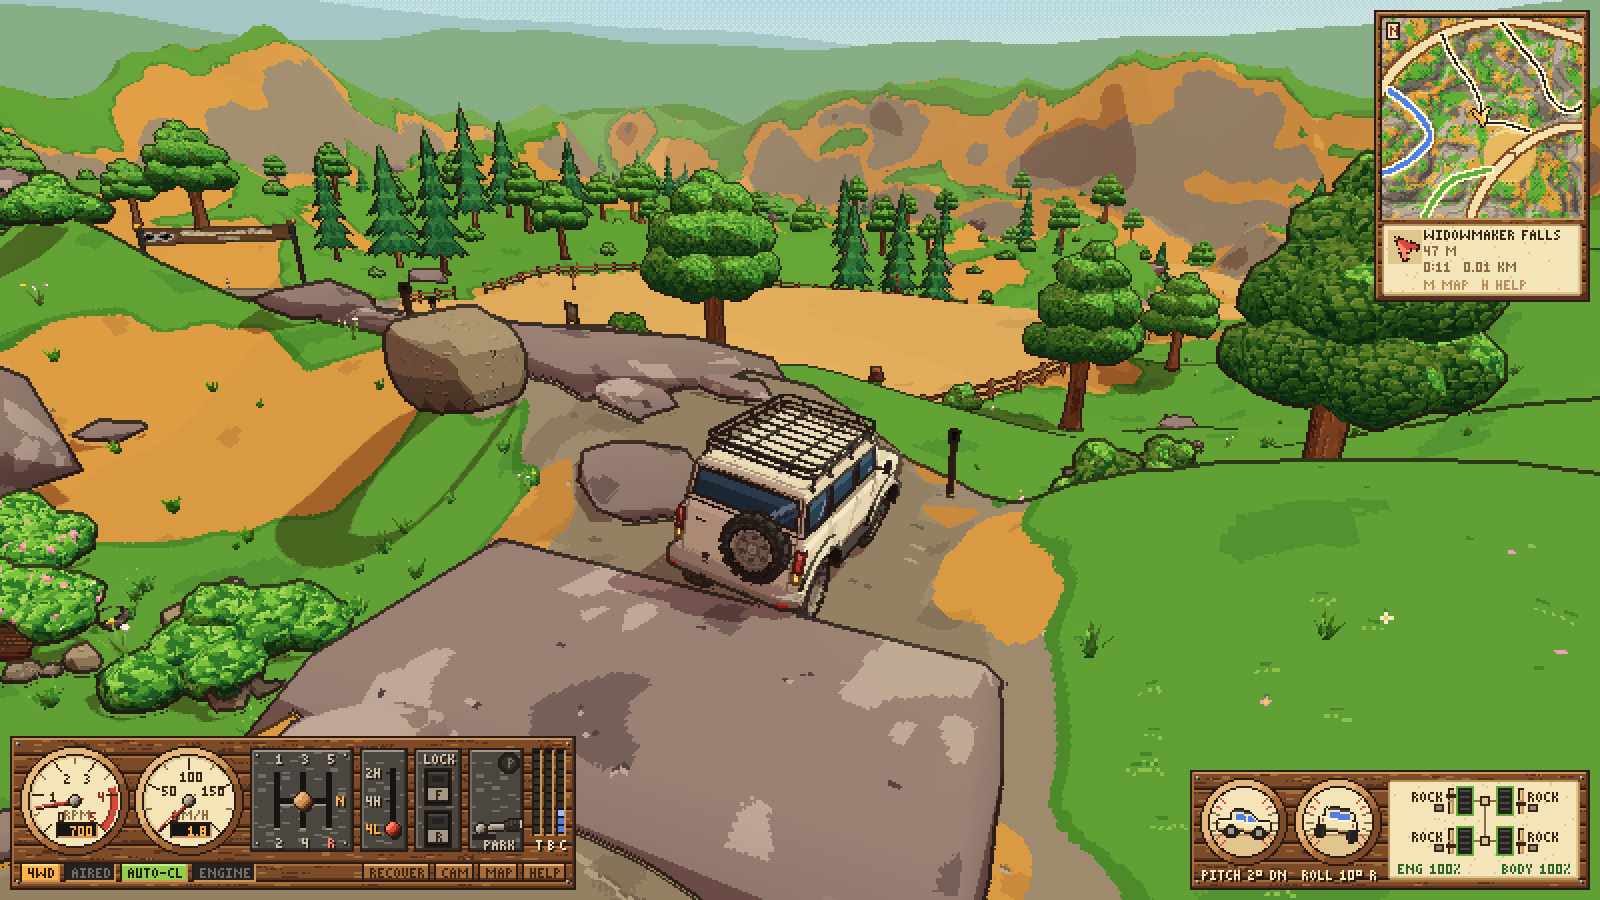
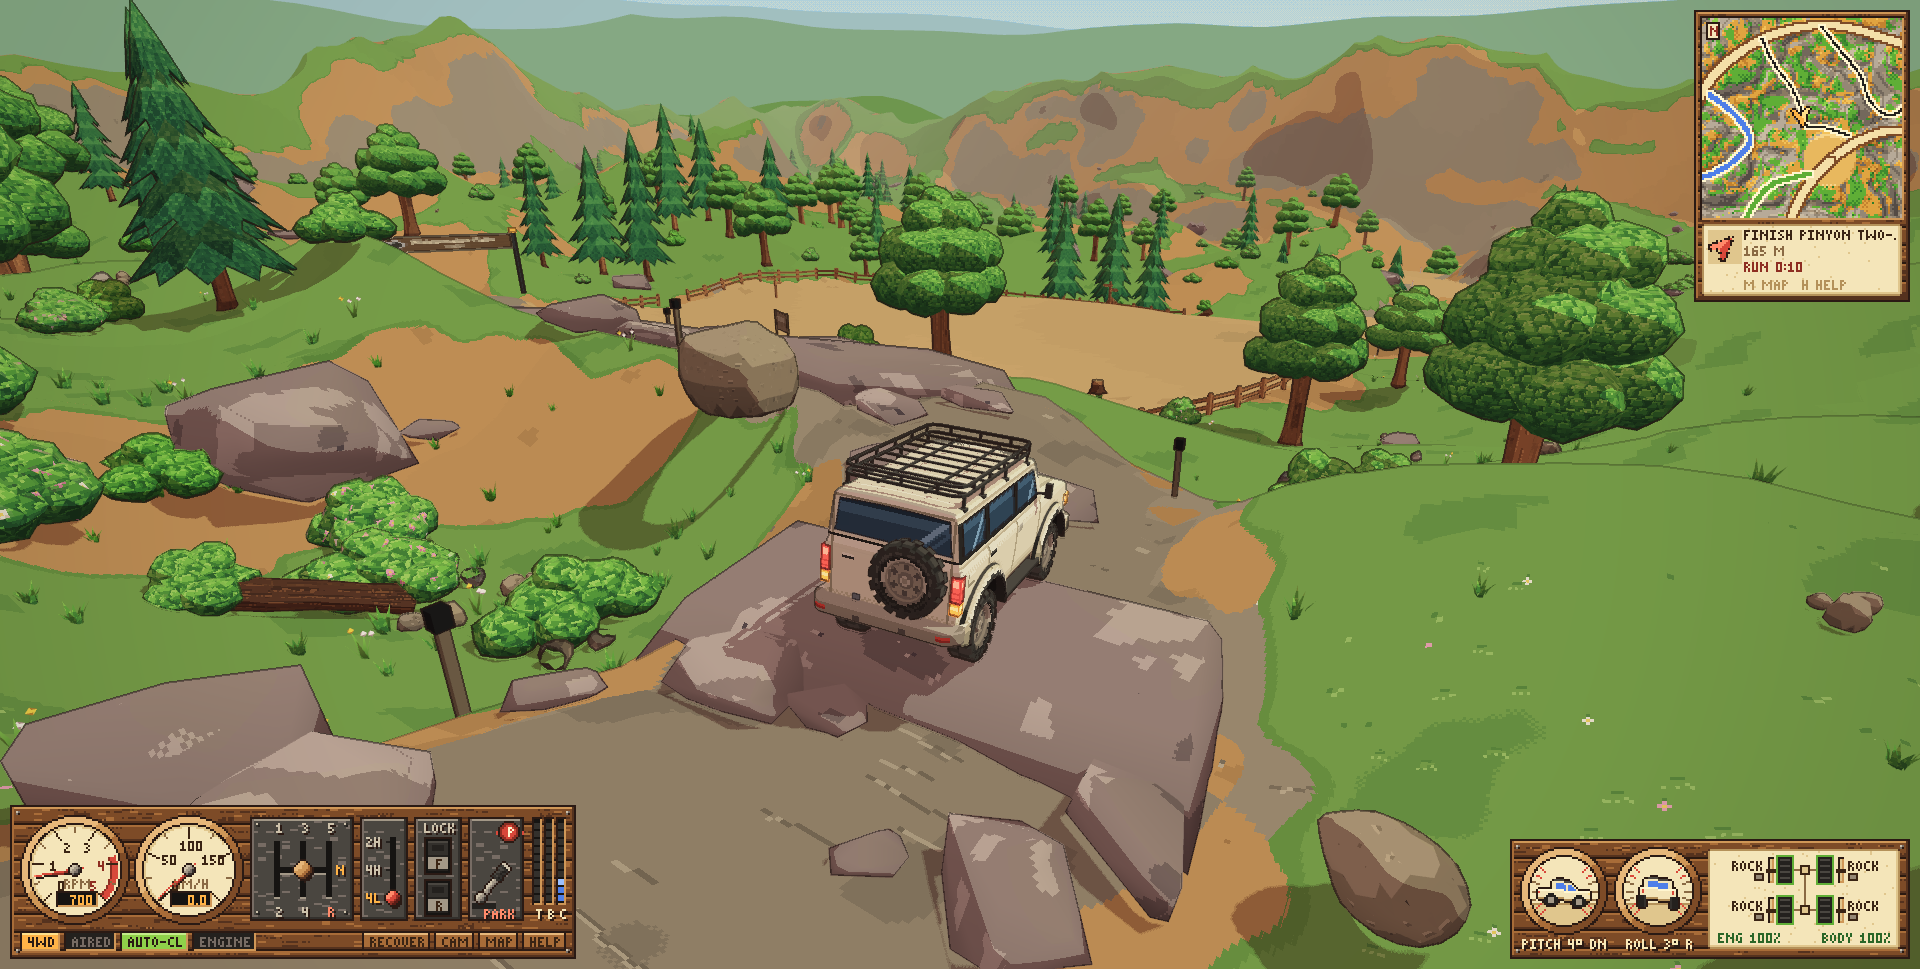
Comfort research, art style update, previews
- docs/reviews/GRAPHICS_RESEARCH.md: measured comfort metrics of 11 games' store screenshots
  against our frame before and after, techniques per game and the rules applied
- ART_STYLE.md: comfort rule, coloured outlines, HD 1x frame, new dirt / grass ramps
- previews: game_* finals at HD 1x + Soft (1920x969), comfort_before/after pairs (trailhead,
  Granite Steps, the Gauntlet, race track), comfort_presets (Soft / Standard / Vivid)
- test/clarity.mjs: SETTINGS env to start with given saved settings

diff --git a/docs/reviews/GRAPHICS_RESEARCH.md b/docs/reviews/GRAPHICS_RESEARCH.md
@@ -1,0 +1,173 @@
+# Graphics research: clean, HD and restful, but still cozy pixel art
+
+Written for the "slightly hard on the eyes, maybe too bright or too contrasted" feedback (Nov 2026).
+Goal: a high-definition, clean picture that still reads as Stardew-style pixel art, and that is
+comfortable to look at for hours.
+
+## Method
+
+- **Real screenshots, measured.** 55 official store screenshots were fetched from the Steam store
+  API (`store.steampowered.com/api/appdetails?appids=...&filters=screenshots`) for Stardew Valley,
+  Sea of Stars, Eastward, Octopath Traveler, Triangle Strategy, A Short Hike, Tunic, Alba, Lonely
+  Mountains: Downhill, Art of Rally and Dinkum. The ones that are daytime outdoor gameplay with
+  little UI were kept (1 to 4 per game). Interiors, battle UIs and menus were left out. These are
+  curated marketing shots, so they are a best-case version of each game.
+- **Not on Steam, so not measured:** Zelda: Link's Awakening (2019) and Animal Crossing. They are
+  discussed from knowledge only.
+- **The same metric on every image** (`py tools/clarity_metrics.py comfort <images...>`): each
+  image is box-resampled to 480 x 270 so sources compare on equal terms. Columns:
+  - L5, L50, L95: Rec.709 luminance percentiles (display-encoded, 0 to 1).
+  - white, black: share of pixels with L > 0.9 and L < 0.08.
+  - sat, sat95: mean and 95th-percentile HSV saturation.
+  - loud: share of pixels that are both bright and strongly saturated (V > 0.75 and S > 0.55).
+  - rms: global luminance contrast.
+  - local: mean standard deviation of L in 4x4 blocks.
+  - edges: share of pixels with a Sobel gradient above 0.25.
+  - hues: number of 15-degree hue bins holding at least 2% of the coloured pixels.
+  - skygap: mean L of the top 22% minus the bottom half.
+- **Our frames** are the internal render (no HUD) from `test/clarity.mjs` at the player's
+  1920x969 browser window. There are five scenes: trailhead, Granite Steps, Widowmaker,
+  Gauntlet stage 3 and the race track.
+
+## Numbers
+
+| source | L5 | L50 | L95 | white | black | sat | sat95 | loud | rms | local | edges | hues |
+|---|---|---|---|---|---|---|---|---|---|---|---|---|
+| Stardew Valley (3) | 0.18 | 0.52 | 0.78 | 0.066 | 0.006 | 0.71 | 0.93 | 0.30 | 0.21 | 0.084 | 0.142 | 8.7 |
+| Sea of Stars (2) | 0.09 | 0.20 | 0.56 | 0 | 0.032 | 0.53 | 0.88 | 0.00 | 0.14 | 0.043 | 0.040 | 12 |
+| Eastward (1) | 0.39 | 0.67 | 0.83 | 0.014 | 0 | 0.24 | 0.55 | 0.00 | 0.13 | 0.022 | 0.038 | 4 |
+| Octopath Traveler (1) | 0.04 | 0.24 | 0.77 | 0.007 | 0.201 | 0.43 | 0.94 | 0.00 | 0.23 | 0.063 | 0.111 | 7 |
+| Triangle Strategy (2) | 0.01 | 0.26 | 0.60 | 0.002 | 0.229 | 0.49 | 0.99 | 0.00 | 0.18 | 0.049 | 0.056 | 12.5 |
+| A Short Hike (4) | 0.31 | 0.52 | 0.80 | 0.016 | 0 | 0.56 | 0.79 | 0.18 | 0.16 | 0.034 | 0.027 | 6.8 |
+| Tunic (2) | 0.16 | 0.53 | 0.83 | 0.013 | 0.025 | 0.47 | 0.84 | 0.12 | 0.22 | 0.033 | 0.042 | 15.5 |
+| Alba (3) | 0.32 | 0.55 | 0.81 | 0.045 | 0 | 0.29 | 0.52 | 0.05 | 0.16 | 0.031 | 0.038 | 7 |
+| Lonely Mountains: Downhill (3) | 0.23 | 0.55 | 0.80 | 0.004 | 0.001 | 0.38 | 0.68 | 0.20 | 0.17 | 0.023 | 0.025 | 7.3 |
+| Art of Rally (4) | 0.23 | 0.45 | 0.76 | 0.003 | 0 | 0.42 | 0.68 | 0.15 | 0.17 | 0.024 | 0.011 | 10 |
+| Dinkum (3) | 0.25 | 0.53 | 0.86 | 0.026 | 0 | 0.50 | 0.77 | 0.20 | 0.19 | 0.077 | 0.114 | 9.7 |
+| Reference concept art | 0.20 | 0.51 | 0.73 | 0 | 0 | 0.66 | 0.81 | 0.39 | 0.19 | 0.068 | 0.104 | 13 |
+| **LowRange before** (5 scenes) | 0.20 | 0.54 | 0.75 | 0.000 | 0.002 | **0.54** | 0.71 | **0.26** | 0.16 | 0.035 | **0.050** | 5.6 |
+| **LowRange after** (5 scenes, Soft, HD 1x) | 0.23 | 0.52 | 0.70 | 0 | 0.000 | 0.44 | 0.60 | **0.02** | 0.13 | 0.025 | **0.023** | 5.6 |
+
+## What the numbers say about our frame (before)
+
+1. **Brightness on its own was not the outlier.** Median luminance 0.54 is right where the
+   restful outdoor 3D games sit (Alba 0.55, LMD 0.55, Short Hike 0.52). Nothing clipped to white.
+2. **Saturation spread was the outlier.** Our mean saturation was 0.54 but the 95th percentile
+   only 0.71: almost every pixel was nearly as saturated as the most saturated one. The calm
+   references keep a wide gap between the two. Art of Rally is 0.42 against 0.68, LMD 0.38
+   against 0.68, Alba 0.29 against 0.52. That means big areas are muted and the strong colour
+   sits on small things. Our "loud" share was 0.26 on average and 0.55 at the Gauntlet: a
+   quarter to half of the screen was bright and saturated at the same time (ochre dirt, lime
+   grass). LMD is 0.20 and Art of Rally 0.15, and those are mostly their accent flowers. In
+   our frame the olive truck was *less* saturated than the ground, so the hierarchy was upside
+   down.
+3. **Edge density was double the HD-clean games.** We measured 0.050, against 0.011 to 0.042 for
+   Art of Rally, Short Hike, LMD, Alba and Tunic. Most of it was the near-black 1 to 2 px outline
+   on every silhouette and ridge. Stardew and Dinkum are higher still (0.11 to 0.14), but there
+   the edges are small, low-amplitude detail inside top-down tiles, not long dark lines across a
+   perspective view.
+4. **Hue count was already low (5 to 6 bins)**, which is good: the palette was coherent. The
+   problem was intensity, not variety.
+
+## Game by game: transferable techniques
+
+**Stardew Valley.** It is far more saturated than its reputation (mean S 0.71). It stays
+restful for other reasons:
+- The camera is top-down and orthographic, so no single flat field of colour stretches to the
+  horizon.
+- Grass is a *mid-dark* green and only the paths are bright, so the bright colour is on the
+  smaller area.
+- Outlines are coloured: dark green on bushes, dark brown on wood, never black.
+- Lighting is flat, so there are no hard light/shade jumps on big surfaces.
+- The small-scale detail is dense but low in amplitude.
+
+Transferable here: coloured outlines, and keep the brightest ground colour off the biggest areas.
+
+**Eastward and Sea of Stars.** These are pixel art with real dynamic light. The light is
+painted, with soft gradients and big pools of mid-dark, and the brightest values are kept for
+light sources and characters. Sea of Stars' median L is only 0.20, with highlights on lamps,
+water glints and party members. Bloom is restrained and local, as a halo around lamps rather
+than a global glow. Transferable: brightest value on small accents, a soft roll-off rather than
+clipping, and no global bloom.
+
+**Octopath Traveler and Triangle Strategy (HD-2D).** These put crisp, nearest-sampled pixel
+art (sprites and textures) into a high-resolution 3D scene. Geometry and lighting are drawn at
+native resolution with smooth edges, while texels stay big and hard. They also use a strong
+tilt-shift depth of field, a vignette, bloom and dark crushed blacks (20% of pixels are near
+black). The core trick transfers: native-resolution geometry with chunky texels. The heavy DoF
+and crushed blacks don't transfer here, because the user has disliked blur and haze before.
+Their sat95 of 0.94 to 0.99 against a modest mean shows the same accent rule again.
+
+**A Short Hike.** This is the closest match to our tech: a low-resolution 3D render, upscaled.
+- No outlines at all. Forms read through value and hue steps.
+- Grass is yellow-olive, not blue-lime, and dirt is a terracotta *darker* than the grass.
+- L5 sits at 0.31: the shadows are lifted, never inky.
+- Edge density is 0.027.
+
+Transferable: warmer, more olive greens, lifted darks, and far fewer dark lines.
+
+**Tunic.** Flat-shaded 3D with soft colour ramps, big calm shapes, and saturated hue on the
+level's focal points. It has the biggest sky/ground gap (0.19): a clear, bright sky over a
+calmer ground.
+
+**Alba, Lonely Mountains: Downhill, Art of Rally.** Clean flat colour and almost no texture
+noise (local contrast 0.023 to 0.031). Silhouettes read by value, not by line. Atmospheric
+perspective is strong: the distance desaturates and shifts towards a soft sky tint, which is
+also why their hue count stays low far away. Saturation is restrained on big areas (0.29 to
+0.42 mean), and the strong colours are flowers, the rider and the car. Art of Rally has the
+lowest edge density of all (0.011). Transferable: fewer and lighter lines, saturation that drains
+with distance, and the rig as the most saturated object.
+
+**Dinkum and Animal Crossing.** Soft ambient light and rounded forms. Shadows are tinted rather
+than grey (Animal Crossing's are blue-violet). Nothing in the frame is pure black or pure white.
+
+**Zelda: Link's Awakening (2019).** From knowledge. A strong tilt-shift blur at the top and
+bottom makes a toy diorama, with soft bloom and a plastic-toy palette. It is very restful, but
+the blur is the main tool, and blur is exactly what the user rejected earlier.
+
+## Rules applied to LowRange
+
+1. **Large areas sit back, small things pop.** The ground (dirt, grass, road) is a step darker
+   and less saturated. All world materials get a small saturation and value grade, while
+   vehicles and flowers are left alone (`toon.js uWorldGrade` / `markWorld`). Target: mean
+   saturation 0.40 to 0.48 with a 95th percentile about 0.15 above it, and loud < 5% of the
+   frame. Result: 0.44 / 0.60, loud 0.02.
+2. **Keep the warmth, lose the glare.** The dirt stays the reference's golden ochre, just darker
+   and calmer (S 0.67 to 0.57, V 0.87 to 0.79). It is not desaturated towards tan, which read as
+   the beige wash the user disliked before. Grass moves from blue-lime to a warmer meadow green.
+3. **Coloured, thinner, fading lines.** The outline is now the surface's own colour taken well
+   down and half-way to the warm outline brown, instead of near-black. Ground ridges get a
+   lighter line, the inner pixel of the bold near line tapers, and lines fade out sooner with
+   distance. Edge density went from 0.050 to 0.023, in line with Short Hike, LMD and Alba.
+4. **Calm texture.** World prop textures move a little towards their neighbourhood average,
+   more with distance, so the canopy speckle drops while every texel stays a crisp pixel. The
+   procedural props' world-space detail is softened too.
+5. **Atmospheric perspective by saturation, not haze.** Fog first drains saturation with
+   distance, then leans towards the (slightly dimmer) horizon tint, still capped at 45%.
+6. **A soft display curve.** Contrast pivots around mid-grey, a soft shoulder rolls the top
+   values off instead of clipping them, there is a tiny black lift and a gentle vignette.
+   Players can tune this: Soft / Standard / Vivid plus Brightness, Contrast and Saturation.
+7. **HD-2D resolution recipe.** The default pixel size is now **HD 1x**: native resolution with
+   4x MSAA on geometry edges, while every pixel-art texture keeps the Fine 2x texel size (a mip
+   bias). The result is clean, smooth silhouettes with chunky, hard texels, which is Octopath's
+   recipe. Outlines at 1x are two pixels thick out to 90 m, so the line weight on screen matches
+   Fine 2x. Fine 2x and the chunkier sizes are still there for anyone who prefers the hard-pixel
+   upscale.
+8. **Rejected:** depth of field / tilt-shift (the Link's Awakening and Octopath tool) and global
+   bloom. Both soften the frame, and the user's earlier complaints were blur and haze. Lamps
+   already read as emissive accents without bloom. Both stay open if wanted later; they were not
+   built or tested in this pass.
+
+## Before / after (5 scenes; flicker on the three trail-park scenes)
+
+| metric | before | after |
+|---|---|---|
+| luminance L5 / L50 / L95 | 0.20 / 0.54 / 0.75 | 0.23 / 0.52 / 0.70 |
+| near-white / near-black share | 0.0002 / 0.0016 | 0 / 0.0002 |
+| saturation mean / p95 | 0.54 / 0.71 | 0.44 / 0.60 |
+| loud (bright and saturated) share | 0.26 (Gauntlet 0.55) | 0.02 (Gauntlet 0.07) |
+| RMS contrast / local contrast | 0.157 / 0.035 | 0.131 / 0.025 |
+| edge density | 0.050 | 0.023 |
+| hue bins | 5.6 | 5.6 |
+| flicker A-B-A share (orbit/drive, 3 scenes) | 0.013-0.018 | 0.012-0.018 |
+| mean abs frame difference while moving | 4.9-8.2 | 3.9-6.8 |

diff --git a/docs/ART_STYLE.md b/docs/ART_STYLE.md
@@ -9,17 +9,18 @@ in-game renderer follow this file so separately built pieces match.
 - **Form:** real 3D with rounded, slightly chunky proportions (soft bevels, puffy canopies, rounded boulders). Not flat boxes, not sprites.
 - **Surface:** hand-pixelled textures at **32 texture pixels per metre**, nearest-neighbour sampling, no mipmap blur. Texture detail carries the pixel-art feel: 3 to 4 tone ramps per material (highlight, base, shade, deep shade) placed deliberately (lighter tops, darker undersides, panel lines, rivets, tread blocks), plus sparse dither. Avoid uniform random noise.
 - **Light:** stepped (2 to 3 band) toon lighting. Shadows are warm and hue-shifted (towards purple-brown), never grey or black.
-- **Outline:** dark warm outline (`#2a1a14`), about 2 to 3 cm, on every object's silhouette.
-- **Frame:** the game renders at a low internal resolution and upscales with hard pixels: every game pixel is an exact, uniform block of device pixels, never resampled by the browser.
+- **Outline:** a warm line on every object's silhouette, about 2 to 3 cm: the surface's own colour taken well down and half way to the outline brown (`#2a1a14`), not near-black. Lighter on ground ridges, fading out with distance.
+- **Frame:** default **HD 1x**: native resolution, geometry edges anti-aliased (4x MSAA), every pixel-art texture kept at the Fine 2x texel size (HD-2D: smooth silhouettes, chunky hard texels). The Fine 2x / 3x / Chunky 4x pixel sizes render low-res and upscale with hard pixels: every game pixel an exact block of device pixels, never resampled by the browser.
 - **Sky and distance:** a clear sky (warm cream horizon stepping up into soft blue) and light aerial perspective: far ground leans towards the horizon haze but never more than about half way, so distant hills keep their colour instead of washing out to beige.
+- **Comfort (eye strain):** big areas sit back, small things pop. Ground and world props are a step calmer in saturation and value than the vehicles, lamps and flowers; no large area may be bright and strongly saturated at once (aim: under 5% of the frame at V > 0.75 and S > 0.55). Saturation drains with distance before any haze. Display grade looks Soft (default) / Standard / Vivid. Rationale and measurements: `docs/reviews/GRAPHICS_RESEARCH.md`.
 - **No brand names, logos, badges or readable plate text** anywhere. Generic grilles and original liveries only.
 
 ## Palette (sRGB hex; each row is highlight, base, shade, deep shade)
 
 | Material | Ramp |
 |---|---|
-| Dirt / trail | `#f0bf72` `#dfa24a` `#be8340` `#8f6134` (between the first `#e0a440` base and the later softened `#d9aa5e`: warm, not chalky) |
-| Grass | `#92cc56` `#64a93b` `#468c32` `#2f6b2b` (a touch less lime than the canopies) |
+| Dirt / trail | `#dcb074` `#ca9757` `#ab7b45` `#815d36` (the reference's golden ochre, kept warm but a step darker and calmer for comfort: the screen's biggest area) |
+| Grass | `#9fc865` `#77a846` `#588d39` `#3d6c30` (warm meadow green, less lime) |
 | Leaf canopy | `#7cc843` `#4fa032` `#2f7d2c` `#1f5a27` |
 | Pine | `#4f9f4a` `#2f7f3f` `#1f6236` `#164a2e` |
 | Bark / wood | `#c98a4e` `#a5683a` `#7d4a2a` `#55301f` |
@@ -43,12 +44,12 @@ in-game renderer follow this file so separately built pieces match.
 
 ## In-game renderer (`src/gfx/`)
 
-- `pipeline.js`: the scene renders at a low internal resolution set by the **Pixel size** setting (F10: Chunky 4x, 3x, Fine 2x, Sharp 1x: device pixels per game pixel on a 1080-tall screen, in proportion on others; default Fine 2x, where the 32 px/m textures land about one texel per pixel at the chase-camera distance, as in the Blender previews), is outlined at that resolution and blown up by a whole number with hard pixels. The drawing buffer is sized to the canvas's exact device pixels (device-pixel-content-box ResizeObserver, `image-rendering: pixelated`), so browser zoom or Windows display scaling never resamples the frame. Sky is drawn there too (stepped, dithered bands).
-- `toon.js`: every `MeshStandardMaterial` (glTF included) is patched once, globally: three warm bands from the real light and shadow, undersides a touch darker, specular dropped, emissive kept, fog capped (`FOG_MAX`). Texture maps are switched to one-mip nearest sampling (`NearestMipmapNearest`; a blend between mips mixes texels into soft in-between tones). Nothing to do per asset.
+- `pipeline.js`: the scene renders at a low internal resolution set by the **Pixel size** setting (F10: Chunky 4x, 3x, Fine 2x, HD 1x: device pixels per game pixel on a 1080-tall screen, in proportion on others; default HD 1x, which keeps the Fine 2x texel size through a mip bias, `pixeltex.js TEX_BIAS`), is outlined at that resolution and blown up by a whole number with hard pixels. The drawing buffer is sized to the canvas's exact device pixels (device-pixel-content-box ResizeObserver, `image-rendering: pixelated`), so browser zoom or Windows display scaling never resamples the frame. Sky is drawn there too (stepped, dithered bands).
+- `toon.js`: every `MeshStandardMaterial` (glTF included) is patched once, globally: three warm bands from the real light and shadow, undersides a touch darker, specular dropped, emissive kept, fog drains saturation then leans towards the haze (capped, `FOG_MAX`). Materials marked world (`markWorld`, everything built before the vehicle in `main.js`, minus flowers) are graded back a little (`uWorldGrade`) and their textures move part way to a coarser mip (`uTexCalm`, less speckle, each texel still crisp). Texture maps are switched to one-mip nearest sampling (`NearestMipmapNearest`). Nothing to do per asset.
 - Outlines come from depth breaks and from **material changes**: each opaque material gets its own outline id, so separate materials on one model (body / glass / tyre) get a dark line where they meet. Use separate materials where you want a line, one material where you don't. A material can opt out with `material.userData.outlineId = 0`.
 - Metallic must stay 0 (the toon pass reads diffuse light; a fully metallic surface would sit in the shade band).
 - Untextured vertex-coloured props can opt into a world-space pixel texture with `material.userData.pixelDetail = true` (the procedural dressing does); textured materials never get it.
 - Ground tiles are generated in `pixeltex.js` from the ramps above (one per surface material, 32 px/m). Eye comfort first: like the Blender props, a tile is mostly one flat ramp colour with broad half-step tone areas and sparse deliberate marks; no salt-and-pepper speckle. Each tile also has hand-made coarser levels (majority vote over 2x2 blocks, so only real palette colours survive: no box-averaged blur) and a flat dominant colour; the shader steps to a coarser level before texels shrink below about 1.15 screen pixels, so distant ground is calmer, coarser pixel art rather than a blurred copy, and never crawls.
 - `terrain_look.js`: on roads, trails and the race track the ground shows the gameplay material grid exactly (what the tyres grip); off the paths it shows a calm visual surface (large grass / dirt areas, rock only as outcrops and cliff bands on the steepest ground). Borders are wobbly, pixel-stepped on a fixed world lattice, and grass gets a darker painted rim. Terrain lighting uses softened normals and a soft 3-step ramp so bands follow the big shape of hills.
 - Small scatter (tufts, flowers, stones, bushes) thins out with distance by size (`world_view.js` + `toon.js` fade, chunks culled past it), so nothing is drawn once it would be only two or three pixels big.
-- Outlines are a firm dark line near the camera (two pixels thick within about 24 m at fine pixel sizes, like the previews), fade out with distance (terrain ridges sooner than objects), and 1-pixel-thin features (racks, rails, posts) get only a light darkening so their frame-to-frame popping stays a small tone change. The shadow camera is snapped to whole shadow texels so shadow edges hold still while driving.
+- Outlines are a coloured line near the camera (two pixels thick within about 24 m at Fine 2x, 90 m at HD 1x, the inner pixel lighter), fade out with distance (terrain ridges sooner and lighter than objects), and 1-pixel-thin features (racks, rails, posts) get only a light darkening so their frame-to-frame popping stays a small tone change. The pipeline ends with the display grade (brightness, contrast, saturation, soft shoulder, black lift, vignette; settings Picture looks and sliders), shared with the garage preview. The shadow camera is snapped to whole shadow texels so shadow edges hold still while driving.
